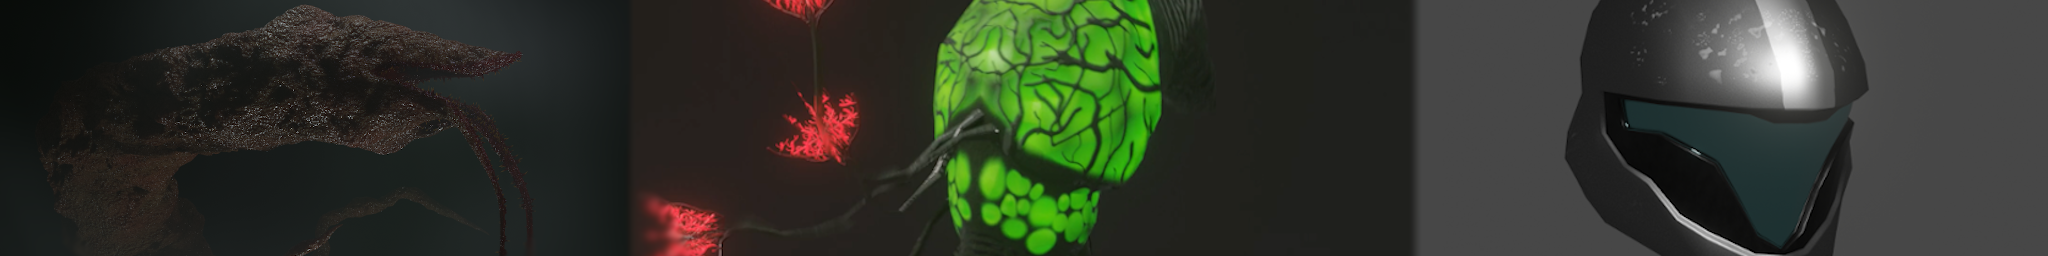
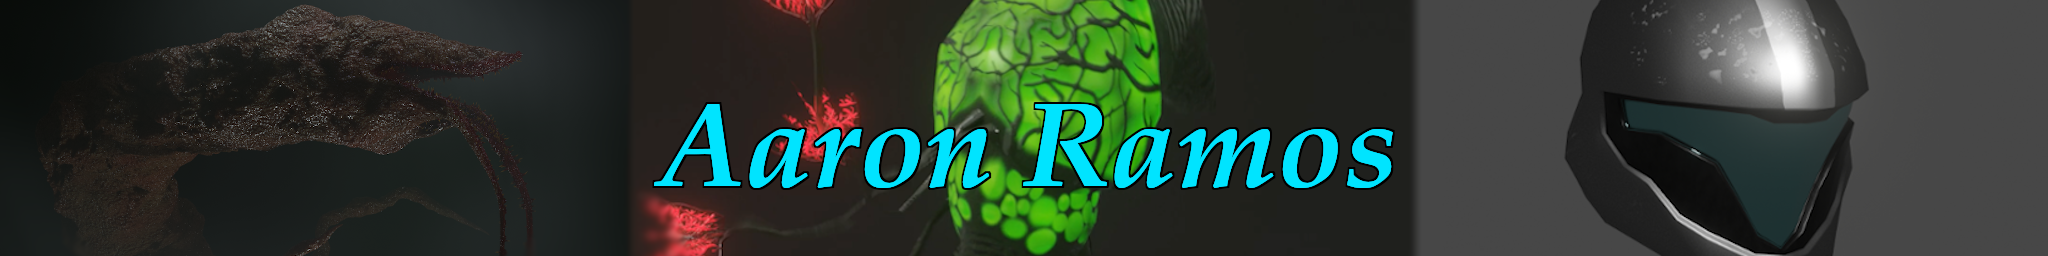
Animation, more cleanup

Changed region(s): [[0.3125, 0.375, 0.6875, 0.75]]

diff --git a/index.html b/index.html
@@ -3,8 +3,16 @@
 <head>
 <style>
 
+html {
+  overflow-y: scroll;
+}
+
 .navcontainer {
   width:100%;
+  animation: slideInFromLeft ease 2s;
+    animation-iteration-count: 1;
+    animation-fill-mode: both;
+    animation-delay: 1s;
 }
 
 .navcontainer2 {
@@ -14,22 +22,32 @@
   background-color: rgb(255, 255, 255);
 }
 
+
+
+.topbox {
+  height:200px;
+  width:100%;
+  background-image: url("banner01.png");
+  background-color: grey;
+  background-repeat: no-repeat;
+  background-size:100% 100%;
+  animation: slideInFromLeft ease 2s, marquee 5s linear infinite;
+    animation-iteration-count: 1;
+    animation-fill-mode: both;
+    animation-delay: 0s;  
+}
+
 .tab {
   display: flexbox;
   width:100%;
   margin: 0 auto;
   background-color: darkgrey;
   bottom: 0px;
-}
-
-.topbox {
-  display:flexbox;
-  height:200px;
-  background-image: url("banner01.png");
-  background-color: grey;
-  background-repeat: no-repeat;
-  background-size: cover;
-  position: relative;
+  text-align: center;
+  animation: slideInFromLeft ease 2s;
+    animation-iteration-count: 1;
+    animation-fill-mode: both;
+    animation-delay: 0.5s;
 }
 
 .tab button {
@@ -77,9 +95,11 @@
   display: none;
   height: fit-content;
   /* overflow:scroll; */
-  width: 500px;
-  left:50%;
-  position:absolute;
+  width: 1000px;
+  margin-left:auto;
+  margin-right:auto;
+  height:max-content;
+  
 }
 
 .tabcontentvert {
@@ -96,23 +116,31 @@ body {
   background-color: rgb(0, 0, 0);
 }
 
-h1 {
-  color: white;
-  text-align: center;
-  font-family: 'Times New Roman', Times, serif;
-  font-size: 50px;
-  position: absolute;
-  left: 50%;
-  bottom: 0px;
-  transform: translate(-50%, 0%);
-  margin: 0 auto;
-}
-
 p {
   font-family: verdana;
   font-size: 20px;
   color: white;
 
+}
+
+@keyframes fadeInAnimation {
+    0% {
+        opacity: 0;
+    }
+    100% {
+        opacity: 1;
+     }
+}
+
+@keyframes slideInFromLeft {
+  0% {
+    transform: translateX(-50%);
+    opacity: 0;
+  }
+  100% {
+    transform: translateX(0);
+    opacity: 1;
+  }
 }
 
 </style>
@@ -121,9 +149,7 @@ p {
 
 
 <!-- Tab links -->
-  <div class="topbox">
-    <h1>Aaron Ramos</h1>
-  </div>
+  <div class="topbox"></div>
   <div class="tab">
     <button class="tablinks" onclick="openTab(event, 'Home')" id="defaultOpen">Home</button>
     <button class="tablinks" onclick="openTab(event, 'Blog')">Blog</button>
